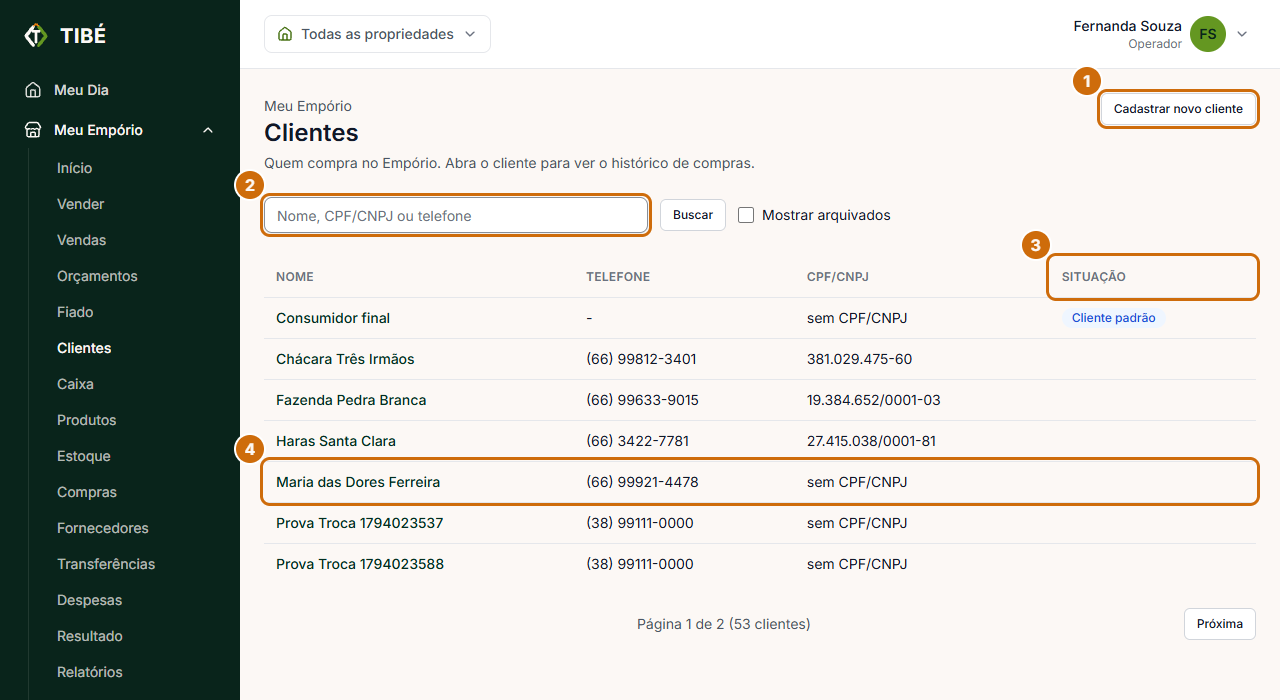
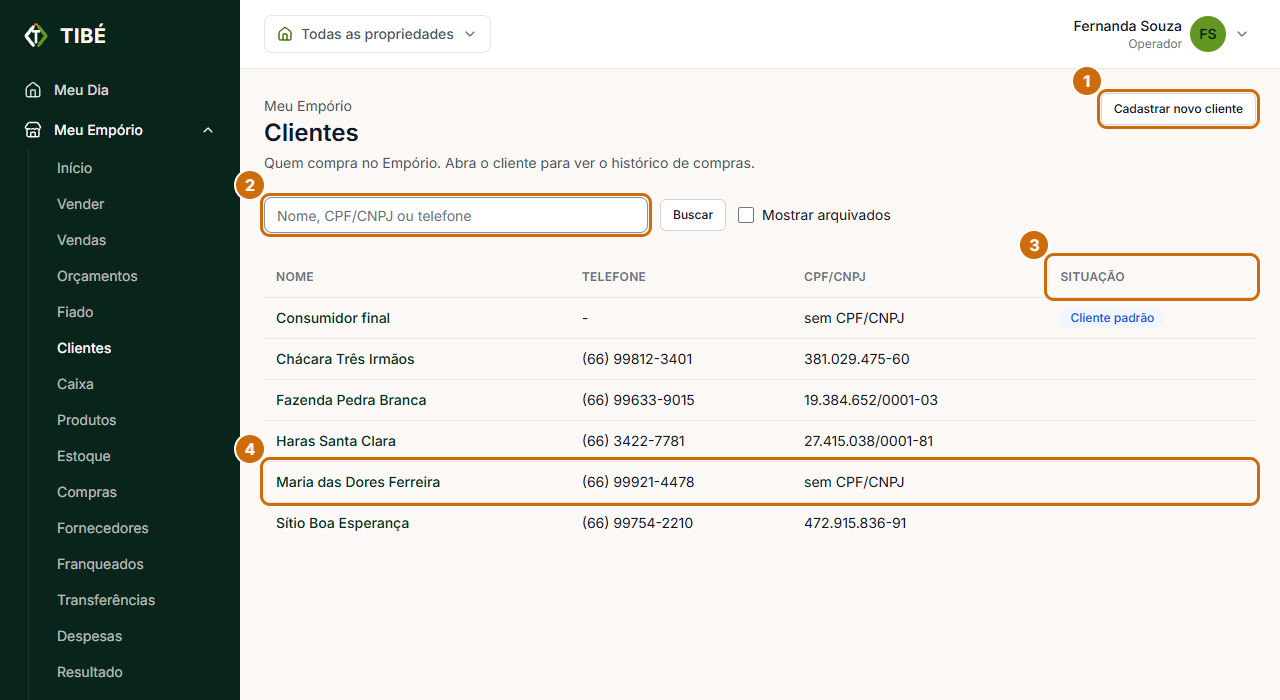
Manual: as 11 figuras que reprovavam regeradas; o cenário do manual limpa da conta do seed o que outros cenários deixaram (46 lojas, 81 clientes, 17 contas) e as telas do Caixa e dos Relatórios ganharam altura
Claude-Session: https://claude.ai/code/session_01PpptRS6hZ4xQMJ721LGqsn

diff --git a/scripts/_limpar-conta-do-seed.ts b/scripts/_limpar-conta-do-seed.ts
@@ -1,0 +1,130 @@
+import "./_env-local";
+import { Client } from "pg";
+import { exigirBancoLocal } from "./_banco-local";
+
+/**
+ * Tira da conta do seed (banco LOCAL) o que os outros cenarios deixaram e a
+ * demonstracao do Meu Emporio nao tem, para as figuras do manual verem a tela
+ * da demonstracao e so ela.
+ *
+ * Por que existe: dezenas de cenarios (`_cenario-emporio-*`) criam loja, cliente
+ * e produto com prefixo proprio na MESMA conta do seed e nao limpam tudo. A conta
+ * passou de 3 lojas para 46, e telas do manual (Estabelecimentos, Financeiro de
+ * hoje, Caixa, Relatorios, Clientes) cresceram para alem da altura das figuras.
+ *
+ * O que faz:
+ * - apaga toda loja que nao e uma das tres da demonstracao, com tudo o que
+ *   depende dela (vendas, caixa, estoque, transferencias, lancamentos...);
+ * - apaga todo modelo de despesa fixa que nao e "Aluguel" nem "Energia eletrica";
+ * - apaga toda conta bancaria que nao e a "Conta da loja";
+ * - apaga todo cliente do Emporio que nao e da demonstracao nem o "Consumidor
+ *   final", com o que depende dele.
+ *
+ * Como apaga sem listar tabela por tabela: percorre as chaves estrangeiras do
+ * proprio banco. Cada linha que aponta para uma linha apagada tambem sai (e a
+ * que aponta para ela, e assim por diante); chave que e SET NULL so e zerada.
+ * Com `session_replication_role = replica` a ordem de exclusao nao importa
+ * (ha ciclos: venda e orcamento se apontam). Tudo numa transacao.
+ *
+ * So banco local: `exigirBancoLocal()` barra o resto, e o usuario do Docker e
+ * superuser (o `replica` exige).
+ */
+
+/** As tres lojas de `scripts/cenario-demonstracao-emporio.ts` (constante LOJAS). */
+export const LOJAS_DA_DEMONSTRACAO = ["Depósito Central", "Loja Centro", "Loja da Rodovia"];
+/** Os cinco clientes de `cenario-demonstracao-emporio.ts` (constante CLIENTES) e o cliente de balcao. */
+export const CLIENTES_DA_DEMONSTRACAO = [
+  "Chácara Três Irmãos",
+  "Sítio Boa Esperança",
+  "Haras Santa Clara",
+  "Fazenda Pedra Branca",
+  "Maria das Dores Ferreira",
+  "Consumidor final",
+];
+
+/** A unica conta bancaria da demonstracao (constante CONTA_NOME). A Posicao de caixa lista todas. */
+export const CONTA_DA_DEMONSTRACAO = "Conta da loja";
+
+/** Os dois modelos de despesa fixa da demonstracao (`cenario-demonstracao-emporio.ts`). */
+export const MODELOS_DA_DEMONSTRACAO = ["Aluguel", "Energia elétrica"];
+
+type Fk ={ filha: string; coluna: string; mae: string; acao: string; anulavel: boolean };
+
+const q = (s: string) => `"${s.replace(/"/g, '""')}"`;
+
+async function lerFks(c: Client): Promise<Fk[]> {
+  const r = await c.query(`
+    select cl.relname as filha, att.attname as coluna, cm.relname as mae, con.confdeltype as acao, not att.attnotnull as anulavel
+    from pg_constraint con
+    join pg_class cl on cl.oid = con.conrelid
+    join pg_class cm on cm.oid = con.confrelid
+    join pg_namespace ns on ns.oid = cl.relnamespace and ns.nspname = 'public'
+    join pg_attribute att on att.attrelid = con.conrelid and att.attnum = con.conkey[1]
+    where con.contype = 'f' and array_length(con.conkey, 1) = 1
+  `);
+  return r.rows.map((x) => ({ filha: x.filha, coluna: x.coluna, mae: x.mae, acao: x.acao, anulavel: x.anulavel }));
+}
+
+/** Apaga as linhas `ids` de `tabela` e tudo o que depende delas. Devolve quantas linhas saíram. */
+async function apagarComDependentes(c: Client, tabela: string, ids: string[]): Promise<number> {
+  if (ids.length === 0) return 0;
+  const fks = await lerFks(c);
+  const apagar = new Map<string, Set<string>>();
+  const zerar: { tabela: string; coluna: string; mae: string }[] = [];
+  const fila: { tabela: string; ids: string[] }[] = [{ tabela, ids }];
+  while (fila.length > 0) {
+    const { tabela: t, ids: lote } = fila.pop()!;
+    const ja = apagar.get(t) ?? new Set<string>();
+    const novos = lote.filter((i) => !ja.has(i));
+    if (novos.length === 0) continue;
+    novos.forEach((i) => ja.add(i));
+    apagar.set(t, ja);
+    for (const fk of fks.filter((f) => f.mae === t)) {
+      if (fk.acao === "n") {
+        zerar.push({ tabela: fk.filha, coluna: fk.coluna, mae: t });
+        continue;
+      }
+      const r = await c.query(`select id from ${q(fk.filha)} where ${q(fk.coluna)} = any($1::text[])`, [novos]);
+      if (r.rows.length > 0) fila.push({ tabela: fk.filha, ids: r.rows.map((x) => x.id as string) });
+    }
+  }
+  // O que e SET NULL e aponta para linha apagada passa a apontar para nada, salvo se a propria linha sai.
+  for (const z of zerar) {
+    const alvo = apagar.get(z.mae);
+    if (!alvo || alvo.size === 0) continue;
+    await c.query(`update ${q(z.tabela)} set ${q(z.coluna)} = null where ${q(z.coluna)} = any($1::text[])`, [[...alvo]]);
+  }
+  let total = 0;
+  for (const [t, conj] of apagar) {
+    const r = await c.query(`delete from ${q(t)} where id = any($1::text[])`, [[...conj]]);
+    total += r.rowCount ?? 0;
+  }
+  return total;
+}
+
+export async function limparForaDaDemonstracao(tenant_id: string): Promise<{ lojas: number; clientes: number; contas: number; linhas: number }> {
+  exigirBancoLocal();
+  const c = new Client({ connectionString: process.env.DATABASE_URL });
+  await c.connect();
+  try {
+    await c.query("begin");
+    await c.query("set local session_replication_role = replica");
+    const lojas = await c.query(`select id from "Establishment" where tenant_id = $1 and not (name = any($2::text[]))`, [tenant_id, LOJAS_DA_DEMONSTRACAO]);
+    const clientes = await c.query(`select id from "EmporioCustomer" where tenant_id = $1 and not (name = any($2::text[]))`, [tenant_id, CLIENTES_DA_DEMONSTRACAO]);
+    const contas = await c.query(`select id from "BankAccount" where tenant_id = $1 and name <> $2`, [tenant_id, CONTA_DA_DEMONSTRACAO]);
+    let linhas = await apagarComDependentes(c, "Establishment", lojas.rows.map((x) => x.id));
+    linhas += await apagarComDependentes(c, "BankAccount", contas.rows.map((x) => x.id));
+    // Apagar a loja leva as partes do rateio dela e deixa o modelo de despesa sem nenhuma
+    // (a projecao do Financeiro quebra com isso); e outros cenarios penduram modelos proprios nas lojas da demonstracao.
+    const modelos = await c.query(`select id from "FixedExpenseTemplate" where tenant_id = $1 and not (name = any($2::text[]))`, [tenant_id, MODELOS_DA_DEMONSTRACAO]);
+    linhas += await apagarComDependentes(c, "FixedExpenseTemplate", modelos.rows.map((x) => x.id));
+    linhas += await apagarComDependentes(c, "EmporioCustomer", clientes.rows.map((x) => x.id));
+    await c.query("commit");
+    return { lojas: lojas.rowCount ?? 0, clientes: clientes.rowCount ?? 0, contas: contas.rowCount ?? 0, linhas };
+  } catch (e) {
+    await c.query("rollback");
+    throw e;
+  } finally {
+    await c.end();
+  }
+}

diff --git a/scripts/_cenario-manual-emporio.ts b/scripts/_cenario-manual-emporio.ts
@@ -1,6 +1,7 @@
 import "./_env-local";
 import { prisma } from "@/lib/prisma";
 import { exigirBancoLocal } from "./_banco-local";
+import { limparForaDaDemonstracao } from "./_limpar-conta-do-seed";
 
 /**
  * Prepara, no banco LOCAL, as sessoes do roteiro `scripts/navegador/manual-emporio.py`.
@@ -12,6 +13,11 @@ import { exigirBancoLocal } from "./_banco-local";
  * da demonstracao, cujas sessoes o manual usa. Aqui a equipe da demonstracao
  * volta a ser a ativa: o Dono e as quatro pessoas dela ocupam os 5 assentos, e
  * os demais ficam desativados, como aqueles cenarios fazem.
+ *
+ * Tambem tira da conta o que OUTROS cenarios deixaram (lojas e clientes que a
+ * demonstracao nao tem): os cenarios `_cenario-emporio-*` usam a mesma conta do
+ * seed, e as telas do manual cresciam alem da altura das figuras. Ver
+ * `_limpar-conta-do-seed.ts`.
  *
  * Idempotente. So banco local: `exigirBancoLocal()` barra o resto.
  */
@@ -36,6 +42,9 @@ async function main() {
   if (faltam.length > 0) {
     throw new Error(`A demonstracao nao esta montada (faltam ${faltam.join(", ")}): rode npm run cenario:emporio-demo -- --conta ${tenant_id} --confirmar`);
   }
+
+  const limpo = await limparForaDaDemonstracao(tenant_id);
+  console.log(`Sujeira de outros cenarios apagada: ${limpo.lojas} lojas, ${limpo.clientes} clientes, ${limpo.contas} contas bancarias (${limpo.linhas} linhas).`);
 
   const mantidos = [owner.id, ...equipe.map((u) => u.id)];
   await prisma.user.updateMany({ where: { tenant_id, id: { notIn: mantidos } }, data: { active: false } });

diff --git a/scripts/navegador/manual-emporio.py b/scripts/navegador/manual-emporio.py
@@ -966,7 +966,7 @@ figura("caixa-gaveta", "vendedor_centro", "/emporio/caixa", [
     (1, LINHA_DO_CAIXA_ABERTO + ".firstElementChild", "a linha de um caixa, com o saldo e a marca Aberto ou Fechado"),
     (2, "Array.from(" + LINHA_DO_CAIXA_ABERTO + ".querySelectorAll('button')).filter(b => ['Sangria', 'Conferir', 'Encerrar'].includes(b.innerText.trim()))", "os botoes Sangria, Conferir e Encerrar"),
     (3, "M.S('Movimentos')", "a secao Movimentos"),
-], limite=4, hd=1060, hc=1500)
+], limite=4, hd=1380, hc=1700)
 
 
 def estado_abrir():
@@ -1045,7 +1045,7 @@ figura("caixa-entregas", "gestor", "/emporio/caixa", [
     (2, "Array.from(" + ENTREGA + ".querySelectorAll('button')).find(b => b.innerText.trim() === 'Confirmar')", "o botao Confirmar"),
     (3, "Array.from(" + ENTREGA + ".querySelectorAll('a')).find(b => b.innerText.trim() === 'Relatório do turno')", "o botao Relatorio do turno"),
     (4, "Array.from(M.H('Loja da Rodovia').closest('div.rounded-lg').querySelectorAll('p')).find(p => p.innerText.startsWith('Com a gerência'))", "a linha Com a gerencia, no cartao da loja"),
-], antes=so_caixas_e_entregas, limite=4, hd=1000, hc=1500)
+], antes=so_caixas_e_entregas, limite=4, hd=1320, hc=1700)
 
 
 def esperado_do_painel():
@@ -1126,7 +1126,7 @@ figura("relatorios-periodo", "gestor", periodo_do_relatorio, [
     (2, "M.L('Loja')", "o campo Loja"),
     (3, "[M.B('Ver relatório'), M.B('Mês atual')]", "os botoes Ver relatorio e Mes atual"),
     (4, "M.S('Vendas por vendedor')", "o bloco Vendas por vendedor"),
-], limite=5, hd=900, hc=1500)
+], limite=5, hd=1720, hc=2080)
 
 
 def estado_historico():
